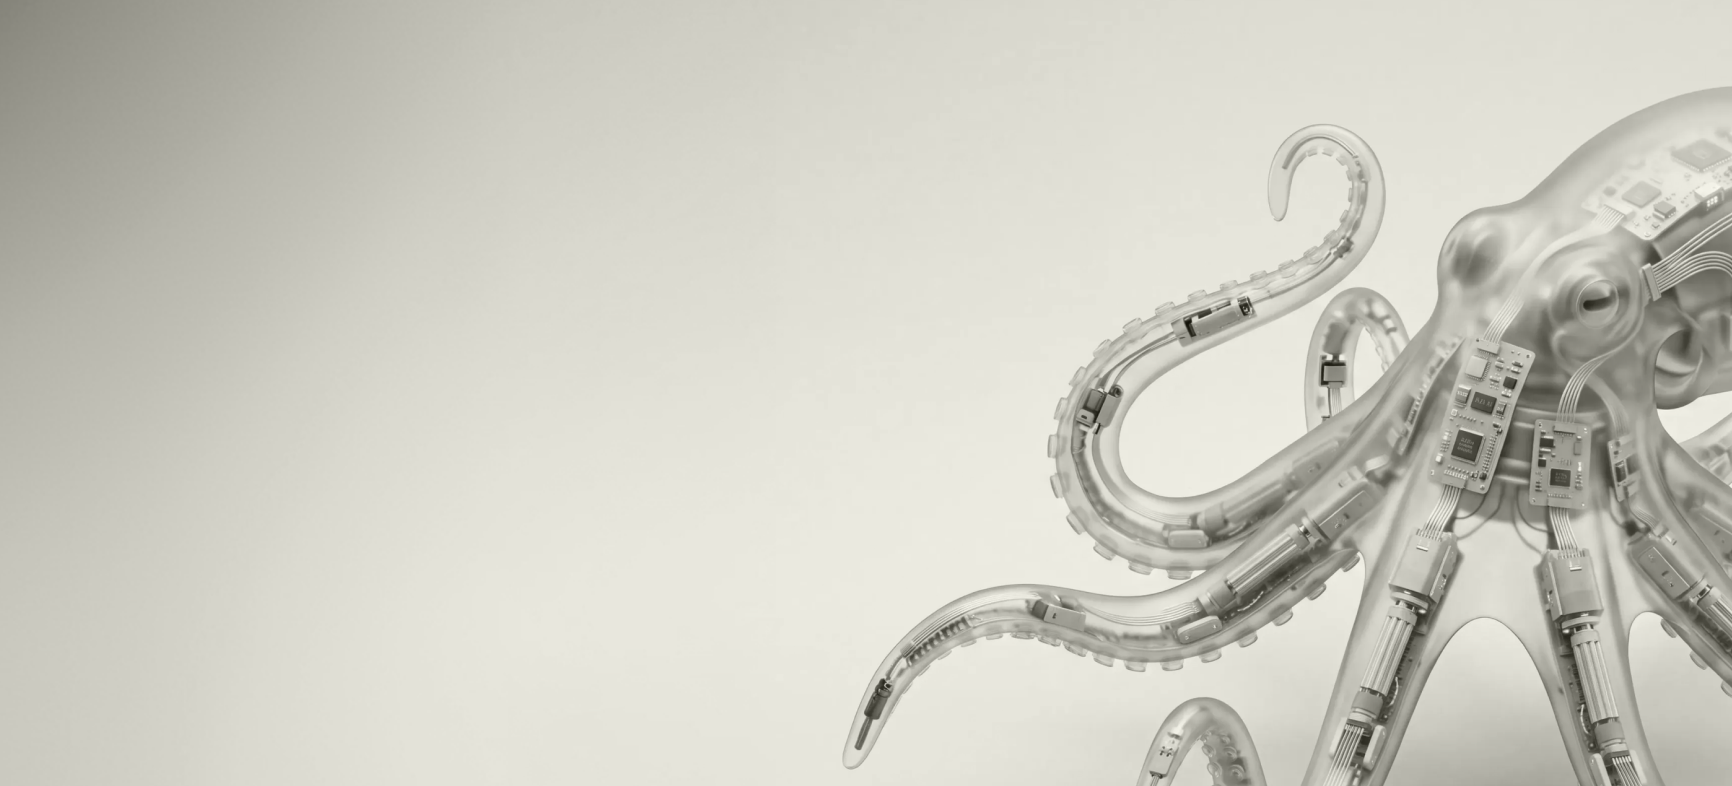
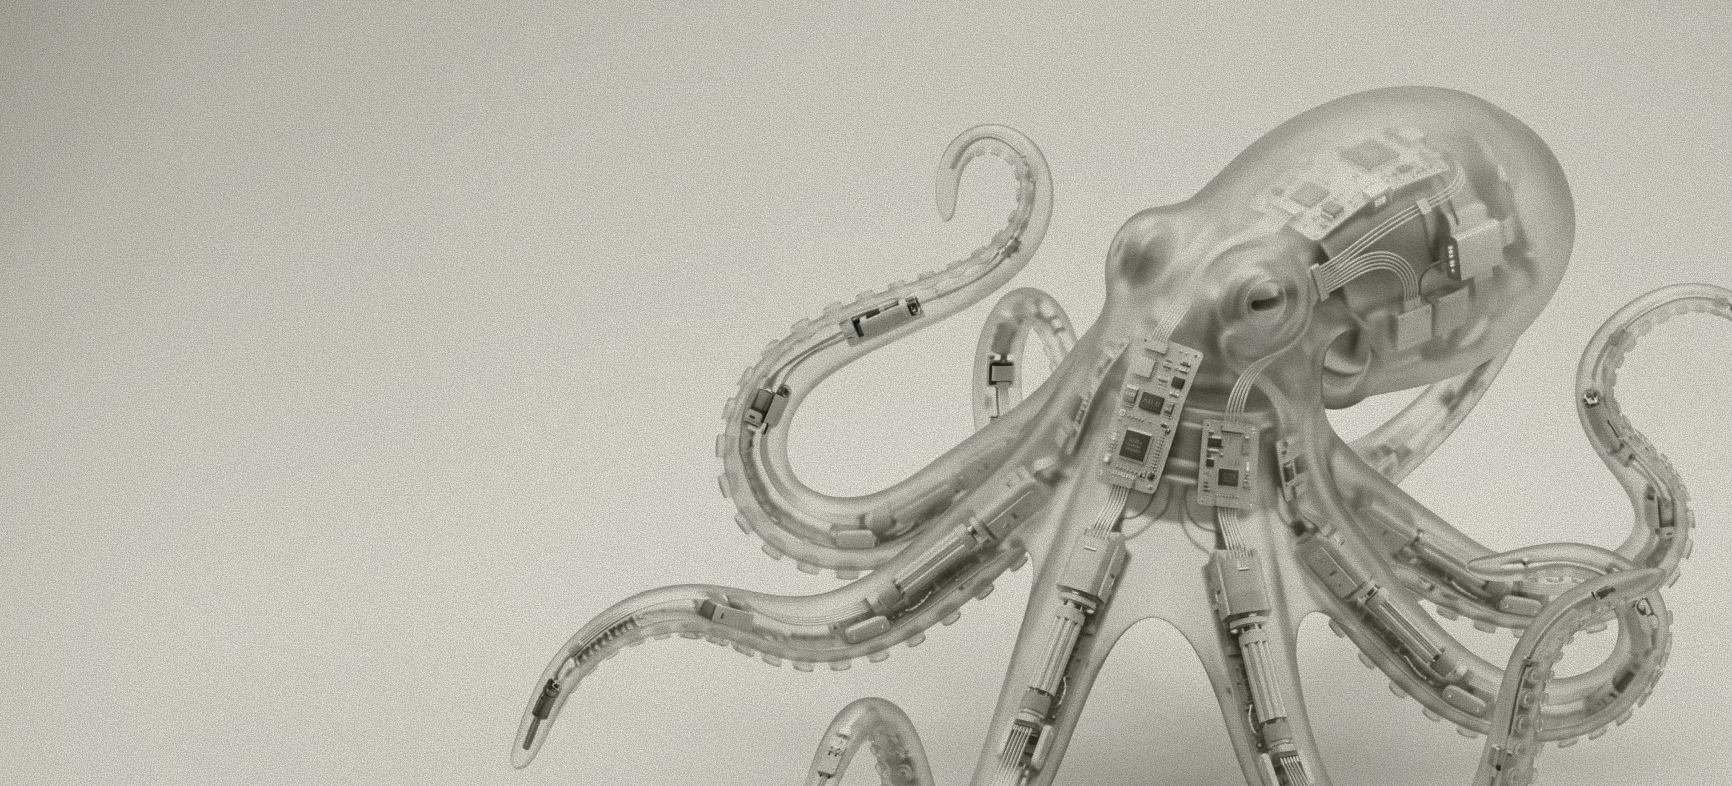
Update Apply hero: new bg image, shorter fold, top-aligned mobile image
Fold height changed from a near-full viewport to 68vh, matching the
Figma frame's actual proportion (657px against the ~973px full-viewport
reference used elsewhere). Mobile hero image is now full-height and
top-aligned instead of fading into the solid background, with a
bottom-anchored gradient scrim added for text legibility since this
crop puts the subject directly behind the text zone.

diff --git a/src/components/folds/apply/ApplyHeroMobile.tsx b/src/components/folds/apply/ApplyHeroMobile.tsx
@@ -2,24 +2,29 @@ import { Button } from "@/components/Button";
 import { withBasePath } from "@/lib/basePath";
 
 /**
- * Mobile Fold1 — hero. Desktop lays the photo full-bleed behind the text;
- * mobile instead stacks a photo block on top that fades into the solid
- * background, with the heading/subhead/CTA sitting on that solid color
- * below it, per Figma's mobile frame — not just a resize of the desktop
- * treatment, so this is its own sibling component (see ApplyHero.tsx).
+ * Mobile Fold1 — hero. Same overlay construction as Fold6CtaMobile (bg
+ * image absolute + text overlaid, anchored to the bottom) rather than the
+ * earlier photo-fades-to-solid treatment — the image now fills the whole
+ * fold, top-aligned (`object-top`) so nothing of the top of the frame gets
+ * cropped. Unlike Fold6CtaMobile's image (which has its own quiet space
+ * built in), this crop puts the subject right behind the text zone, so a
+ * bottom-anchored scrim is added purely for legibility — it doesn't touch
+ * the top two-thirds of the image, so the photo still reads as "full
+ * space, top-aligned" rather than faded out like the old treatment. Same
+ * 68vh height as desktop's ApplyHero (see that file for the Figma-derived
+ * ratio) — this fold stays shorter than a full viewport on both
+ * breakpoints, not just desktop.
  */
 export function ApplyHeroMobile() {
   return (
-    <div className="flex flex-col bg-[#e1e0d6]">
-      <div className="relative h-[55vh] w-full overflow-hidden">
-        <img
-          src={withBasePath("/images/apply-hero-bg-mobile.png")}
-          alt=""
-          className="absolute inset-0 h-full w-full object-cover"
-        />
-        <div className="absolute inset-x-0 bottom-0 h-24 bg-gradient-to-b from-transparent to-[#e1e0d6]" />
-      </div>
-      <div className="flex flex-col items-start gap-4 px-(--spacing-page) pt-8 pb-16">
+    <div className="relative min-h-[68vh] overflow-hidden bg-surface-light">
+      <img
+        src={withBasePath("/images/apply-hero-bg-mobile.png")}
+        alt=""
+        className="absolute inset-0 h-full w-full object-cover object-top"
+      />
+      <div className="absolute inset-x-0 bottom-0 h-2/3 bg-gradient-to-t from-surface-light via-surface-light/70 to-transparent" />
+      <div className="relative flex min-h-[68vh] flex-col justify-end gap-4 px-(--spacing-page) pt-24 pb-16">
         <h1 className="font-display text-[40px] leading-[50px] text-text-on-light">
           Shape what&rsquo;s next
         </h1>

diff --git a/src/components/folds/apply/ApplyHero.tsx b/src/components/folds/apply/ApplyHero.tsx
@@ -5,20 +5,24 @@ import { withBasePath } from "@/lib/basePath";
 /**
  * Apply Fold1 — hero (desktop). Full-bleed background photo behind the
  * heading/subhead/CTA, same construction as Fold6Cta (absolute bg image +
- * FoldGrid content on top). Mobile is a genuinely different layout — the
- * photo fades into the solid background instead of sitting full-bleed
- * behind the text — so it's a full sibling component (ApplyHeroMobile),
- * not a breakpoint variant of this one; see ApplyHeroMobile.tsx.
+ * FoldGrid content on top). Mobile is a genuinely different layout — a
+ * fixed panel that stacks below the nav rather than a full-viewport
+ * overlay — so it's a full sibling component (ApplyHeroMobile), not a
+ * breakpoint variant of this one; see ApplyHeroMobile.tsx.
+ *
+ * min-h-[68vh], not a full viewport: per Figma metadata this fold is
+ * 657px against the ~973px full-viewport reference height used elsewhere
+ * (657/973 ≈ 68%) — deliberately shorter than the other full-bleed folds.
  */
 export function ApplyHero() {
   return (
-    <div className="relative min-h-[90vh] overflow-hidden bg-surface-light">
+    <div className="relative min-h-[68vh] overflow-hidden bg-surface-light">
       <img
         src={withBasePath("/images/apply-hero-bg.png")}
         alt=""
         className="absolute inset-0 h-full w-full object-cover"
       />
-      <FoldGrid className="relative min-h-[90vh] items-center py-24">
+      <FoldGrid className="relative min-h-[68vh] items-center py-24">
         <div className="col-start-1 col-span-4 flex flex-col items-start gap-6">
           <h1 className="font-display text-h2 text-text-on-light">Shape what&rsquo;s next</h1>
           <p className="font-display text-h3 text-text-on-light">
